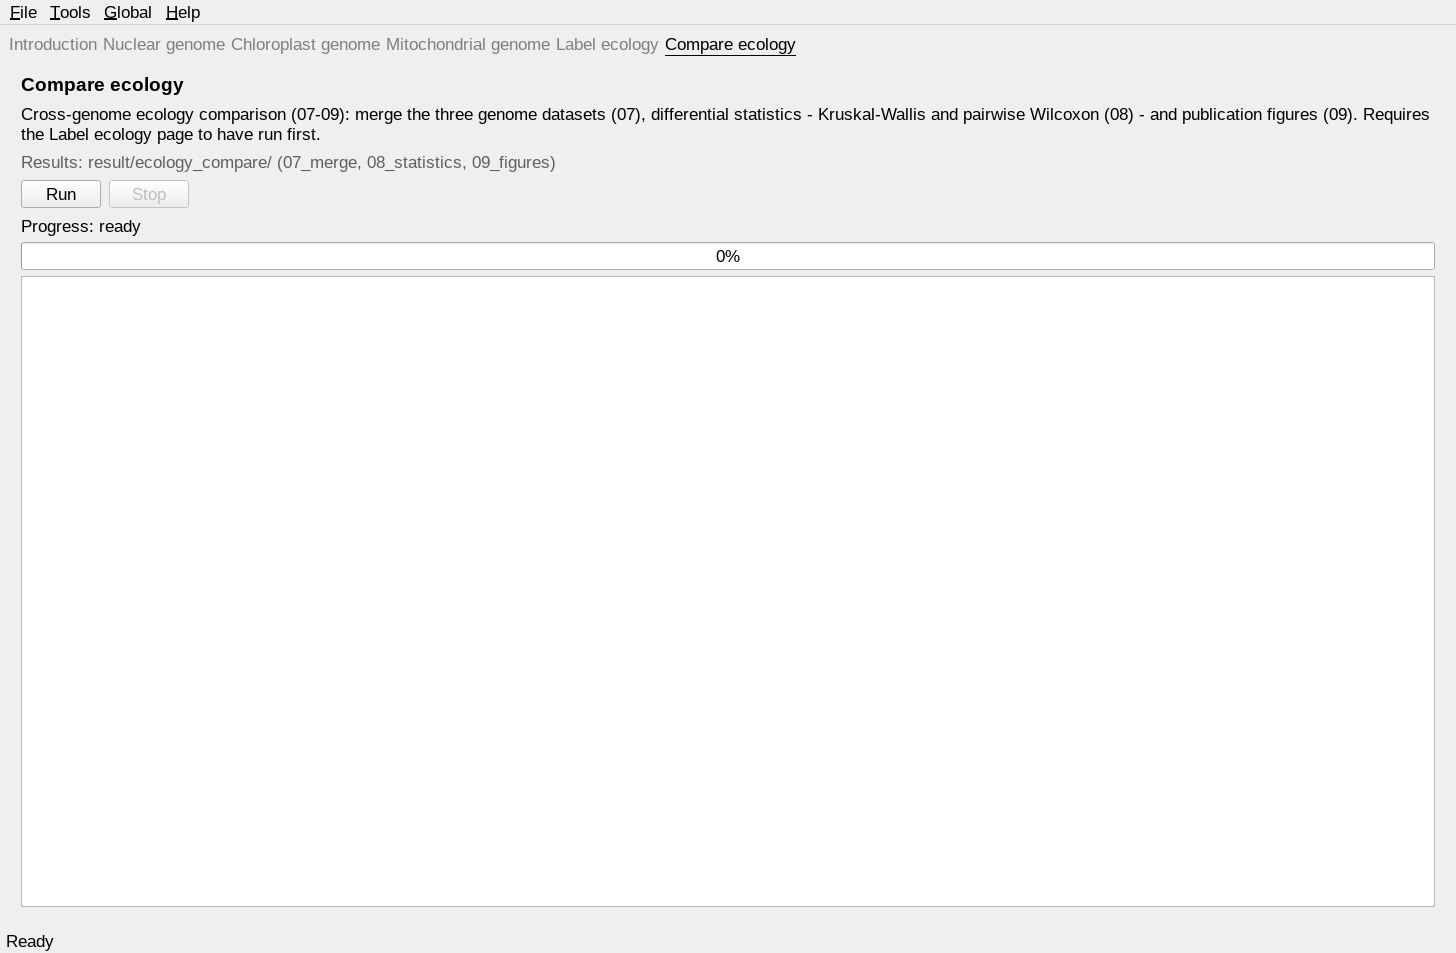
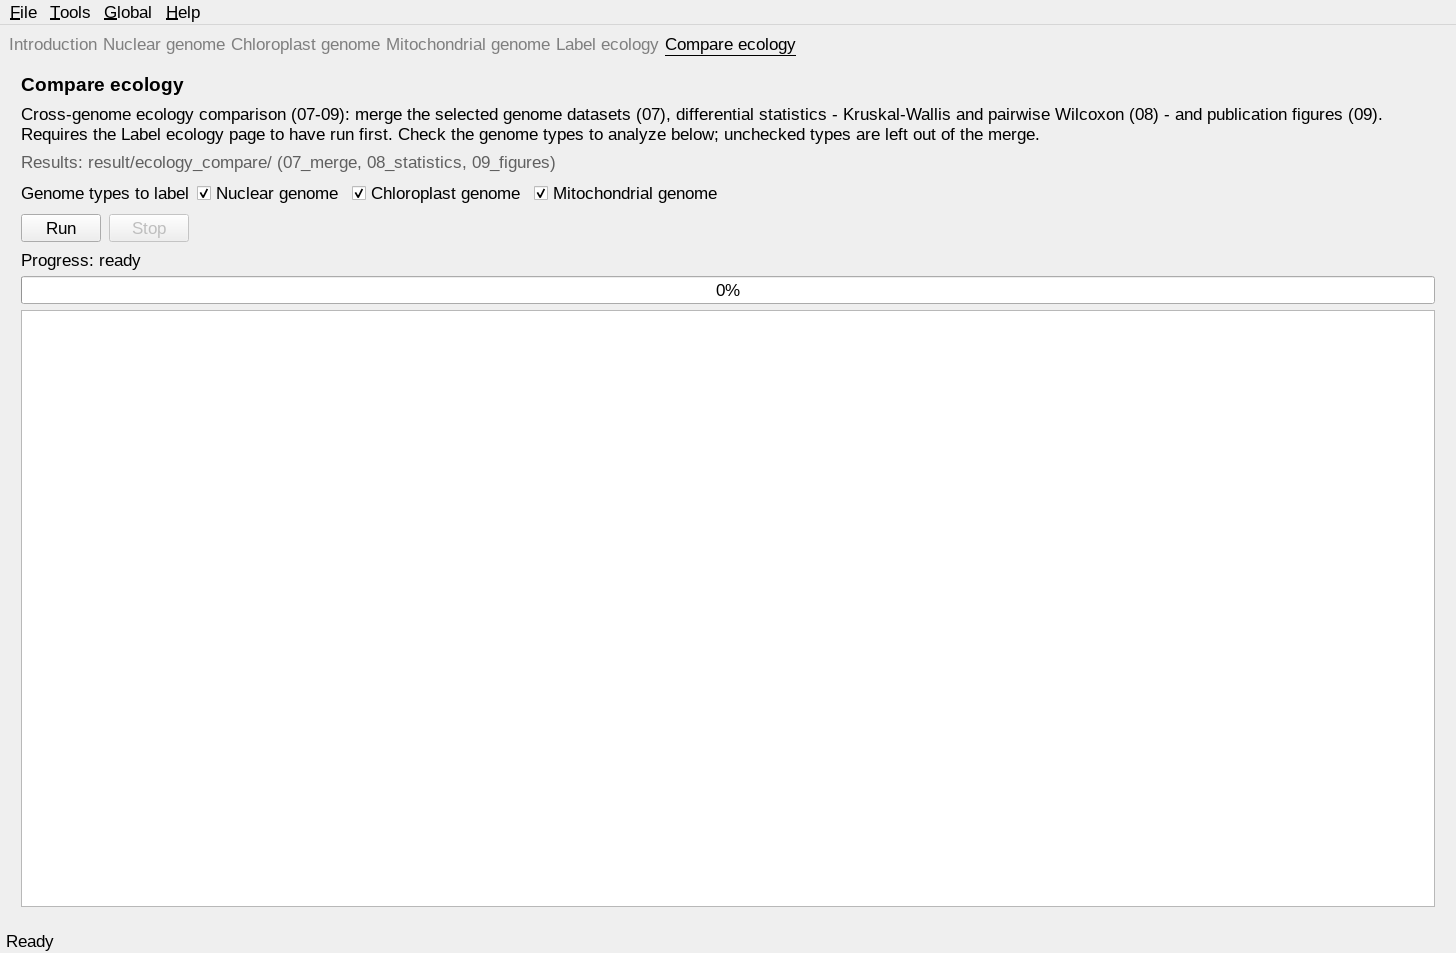
docs: v1.3.63 Compare ecology genome-type checkboxes

diff --git a/docs/conf.py b/docs/conf.py
@@ -9,8 +9,8 @@ author = "sunshadeCisseeker developers"
 copyright = "2026, sunshadeCisseeker developers"
 
 # The short X.Y version and the full release version.
-version = "v1.3.62"
-release = "v1.3.62"
+version = "v1.3.63"
+release = "v1.3.63"
 
 extensions = [
     "sphinx.ext.autosectionlabel",

diff --git a/docs/content/GUI.rst b/docs/content/GUI.rst
@@ -37,7 +37,7 @@ There are exactly six sliding pages, in this order:
    * - **Label ecology**
      - assigns the sun/facultative/shade labels to the merged datasets (cross-genome step 06), one label sheet per genome type; checkboxes select the types to label
    * - **Compare ecology**
-     - runs the cross-genome ecology comparison (steps 07-09; requires Label ecology first)
+     - runs the cross-genome ecology comparison (steps 07-09; requires Label ecology first); checkboxes select the genome types to merge
 
 Each analysis page shows the step description, the result directory hint and
 a live log panel. The three genome pages additionally offer an **NCBI API key
@@ -49,9 +49,11 @@ value from ``quickstart_config.yml``; when the key is absent it pre-fills
 with ``2`` (skips oversized archives such as the ~2.7 GB *Tanacetum
 coccineum* genome). Clearing the field means no limit (the empty value
 persists), while a *missing* key defaults to ``2`` again on the next
-``run_all.sh`` launch. The **Label ecology** page additionally offers the
-three genome-type checkboxes (all checked by default) that become the
-``--label-types`` flag of the label run. A screenshot of every
+``run_all.sh`` launch. The **Label ecology** and **Compare ecology** pages
+additionally offer the three genome-type checkboxes (all checked by
+default): they become the ``--label-types`` / ``--ecology-types`` flags of
+the respective runs, so both steps analyze exactly the selected genome
+types. A screenshot of every
 page and popup, with explanations, is on the :doc:`Screenshots` page.
 
 Menu bar

diff --git a/docs/content/Screenshots.rst b/docs/content/Screenshots.rst
@@ -69,11 +69,13 @@ editors and the remaining functions.
 .. figure:: ../_static/screenshots/06-compare-ecology.png
    :width: 1360
 
-   The **Compare ecology** page runs steps 07–09: merge the three datasets
-   into the ecology master table (07), differential statistics —
+   The **Compare ecology** page runs steps 07–09: merge the selected genome
+   datasets into the ecology master table (07), differential statistics —
    Kruskal-Wallis plus pairwise Wilcoxon with Benjamini-Hochberg correction
-   (08) — and the publication figures (09). It requires the Label ecology page
-   to have run first. Results land under ``result/ecology_compare/``.
+   (08) — and the publication figures (09). The three genome-type checkboxes
+   match the Label ecology page: unchecked types are left out of the merge.
+   It requires the Label ecology page to have run first. Results land under
+   ``result/ecology_compare/``.
 
 Menu-bar popup windows
 ----------------------

diff --git a/docs/content/Ecology comparison.rst b/docs/content/Ecology comparison.rst
@@ -28,7 +28,12 @@ accepts the same flag).
 Step 07 — merge
 ---------------
 
-1. For each of the three genome types, merge the per-species element counts
+The **Compare ecology** GUI page offers the same genome-type checkboxes as
+Label ecology (``run_all.sh ecology --ecology-types=<comma list>``): only
+the checked types are merged, and steps 08–09 follow the types present in
+the master table, so the comparison always matches the labeling selection.
+
+1. For each selected genome type, merge the per-species element counts
    (``Species_element_counts``) with the per-species **total promoter
    number** (from the 05 id map).
 2. Compute the normalised metric used everywhere downstream:

diff --git a/docs/content/Changelog.rst b/docs/content/Changelog.rst
@@ -1,6 +1,15 @@
 Changelog
 =========
 
+1.3.63 — Compare ecology: genome-type checkboxes
+--------------------------------------------------
+
+* The **Compare ecology** page now offers the same three genome-type
+  checkboxes as the Label ecology page: only the checked types enter the
+  07 merge (``run_all.sh ecology --ecology-types=<comma list>``), and steps
+  08/09 follow the types present in the master table, so the comparison
+  stays consistent with the Label ecology selection.
+
 1.3.62 — editor dialogs: Rscript resolution off the GUI thread
 ----------------------------------------------------------------
 

diff --git a/docs/content/About sunshadeCisseeker.rst b/docs/content/About sunshadeCisseeker.rst
@@ -4,7 +4,7 @@ About sunshadeCisseeker
 sunshadeCisseeker identifies, annotates and compares promoter
 cis-regulatory elements across sun / facultative / shade plants.
 
-The current release is **1.3.62**.
+The current release is **1.3.63**.
 
 Highlights
 ----------
